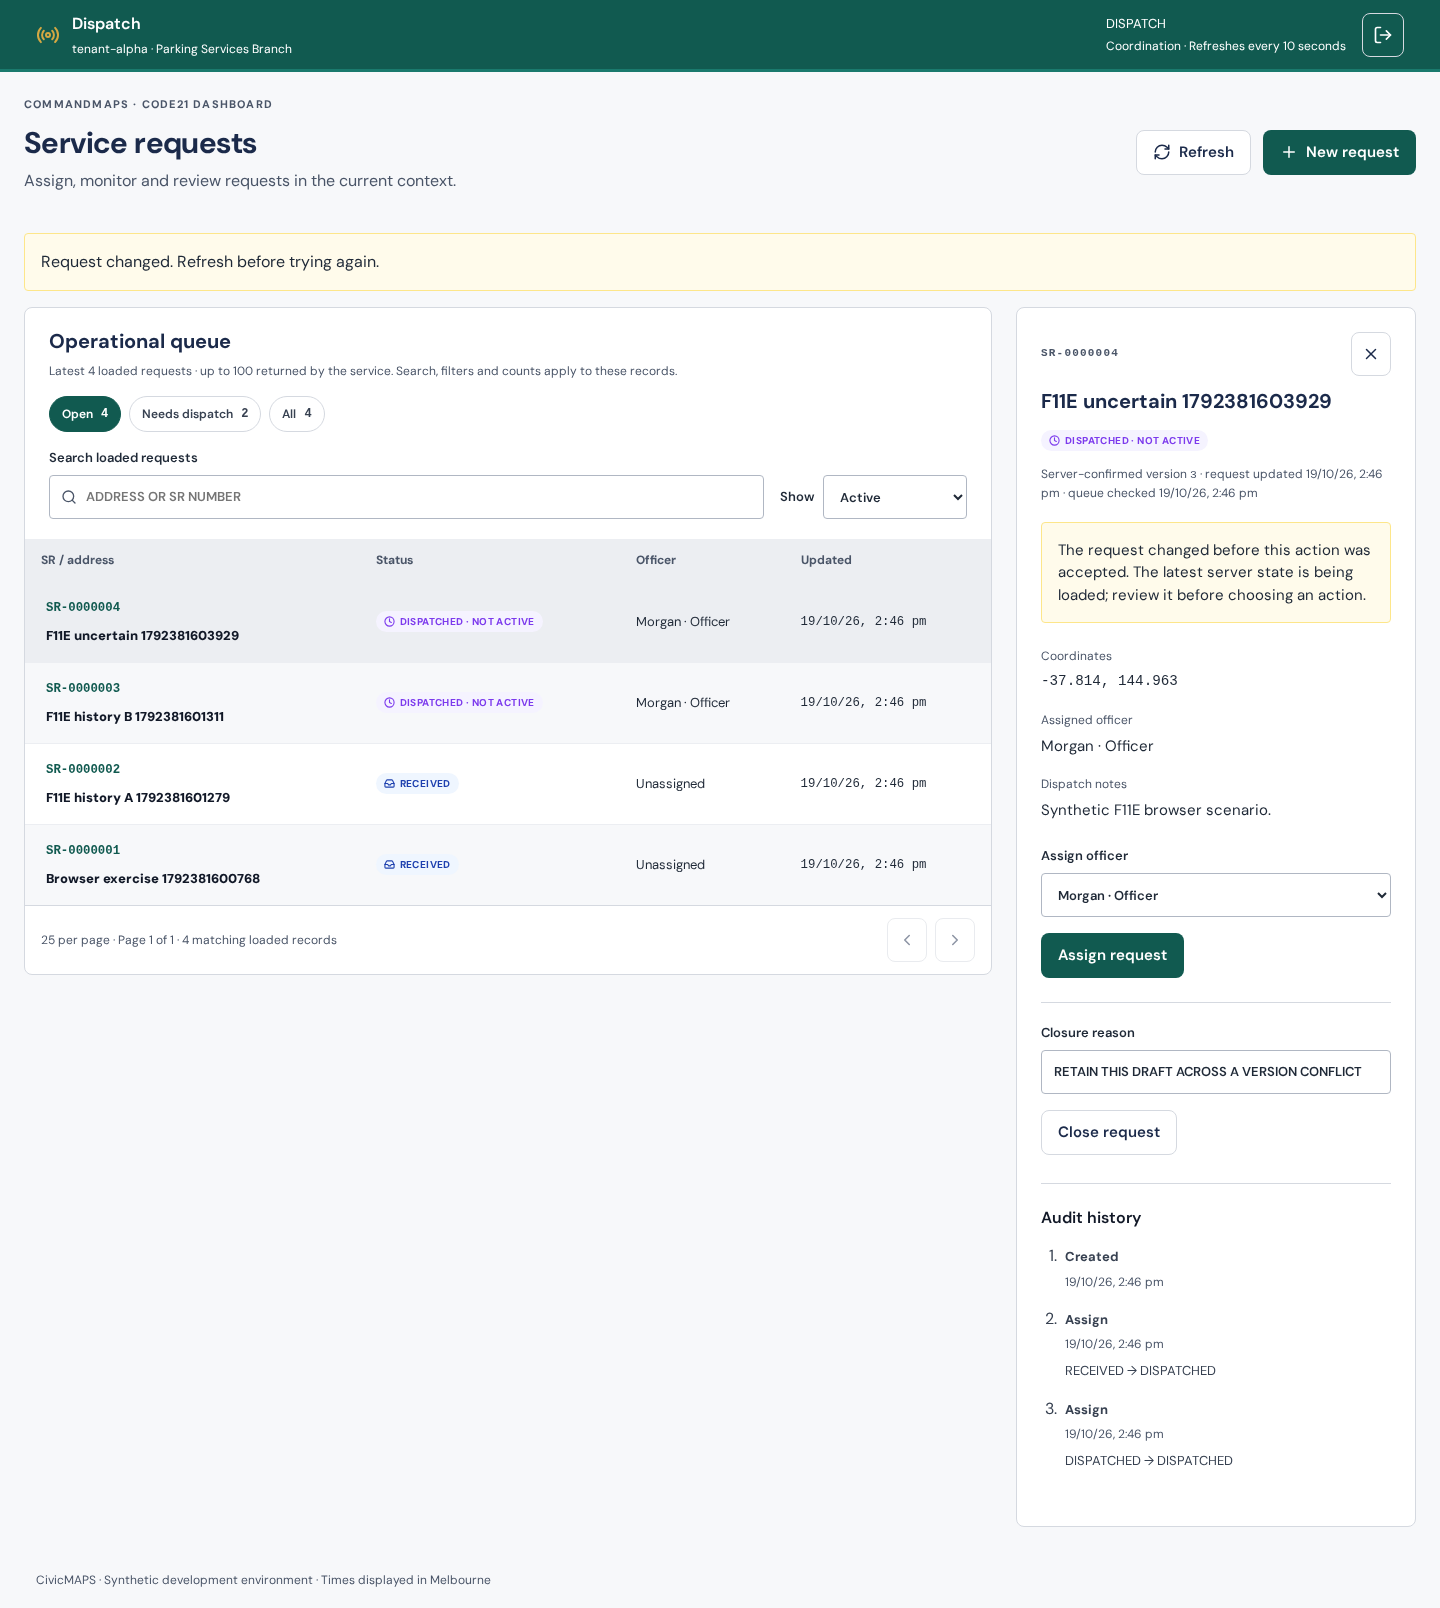
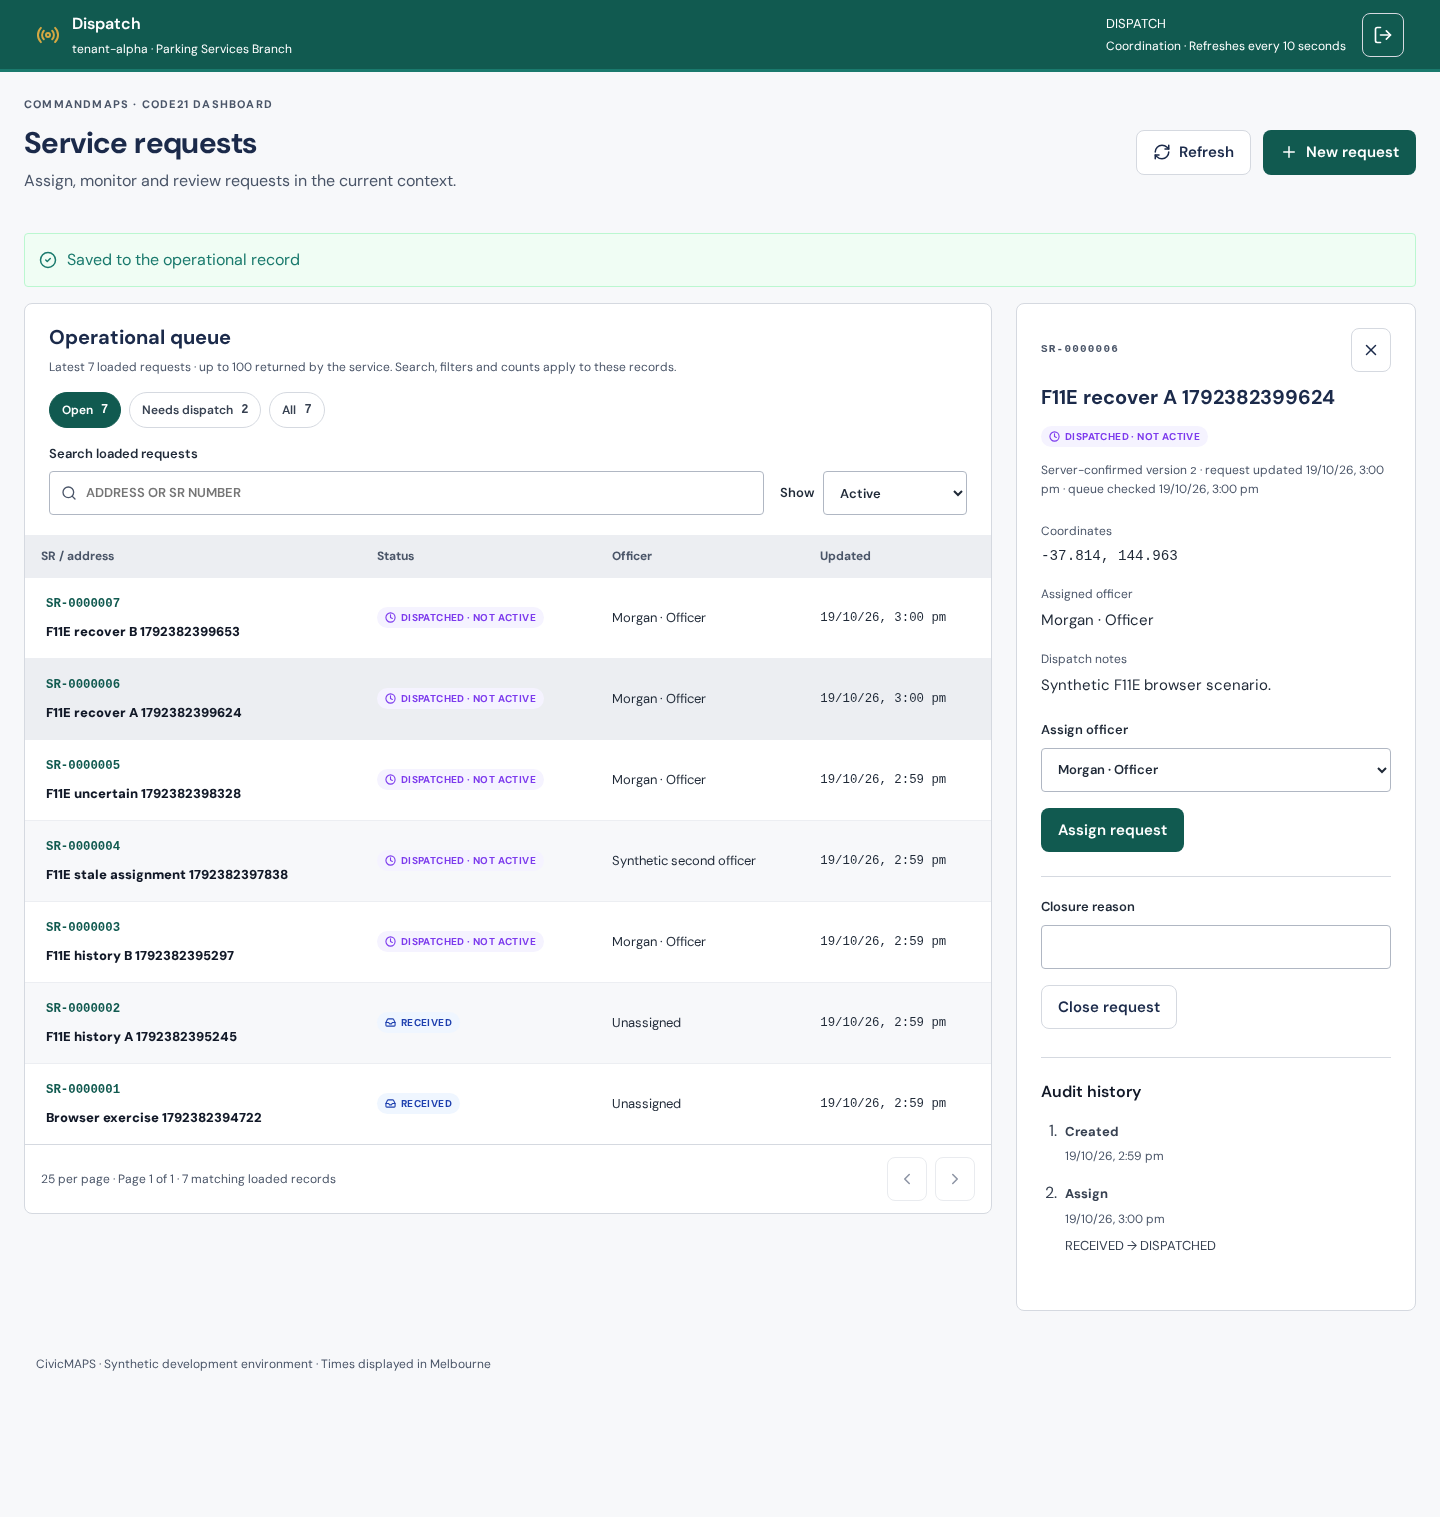
fix(commandmaps): preserve dispatch recovery state

diff --git a/apps/commandmaps/src/main.tsx b/apps/commandmaps/src/main.tsx
@@ -116,9 +116,10 @@ function App() {
   const [selected, setSelected] = useState<string | null>(null);
   const selectedRef = useRef<string | null>(null);
   const [auditState, setAuditState] = useState<AuditState | null>(null);
-  const [actionRecovery, setActionRecovery] = useState<RecoveryAction | null>(null);
+  const [actionRecoveries, setActionRecoveries] = useState<Record<string, RecoveryAction>>({});
   const [assignmentDraft, setAssignmentDraft] = useState('');
   const [closureReasonDraft, setClosureReasonDraft] = useState('');
+  const assignmentDraftDirty = useRef(false);
   const [creating, setCreating] = useState(false);
   const [filter, setFilter] = useState('active');
   const retry = useRef<{ payload: string; key: string } | null>(null);
@@ -129,10 +130,19 @@ function App() {
   const current = requests.find((request) => request.id === selected);
   const currentId = current?.id;
   const currentVersion = current?.version;
+  const actionRecovery = currentId ? actionRecoveries[currentId] : undefined;
   const scopeKey = actor
     ? `${actor.id}:${actor.context_id ?? ''}:${actor.tenant_id}:${actor.jurisdiction_id}:${actor.branch_id}:${entitlement?.version ?? ''}`
     : '';
   const loadGeneration = useRef(0);
+  function updateActionRecovery(requestId: string, recovery: RecoveryAction | null) {
+    setActionRecoveries((existing) => {
+      const next = { ...existing };
+      if (recovery) next[requestId] = recovery;
+      else delete next[requestId];
+      return next;
+    });
+  }
   const load = useCallback(async () => {
     const generation = ++loadGeneration.current;
     if (!hasQueueSnapshot.current) setQueueState('loading');
@@ -150,7 +160,7 @@ function App() {
         selectedRef.current = null;
         setSelected(null);
         setAuditState(null);
-        setActionRecovery(null);
+        setActionRecoveries({});
         setQueueCheckedAt(null);
         setActor(session.actor);
         retry.current = null;
@@ -193,7 +203,7 @@ function App() {
           selectedRef.current = null;
           setSelected(null);
           setAuditState(null);
-          setActionRecovery(null);
+          setActionRecoveries({});
           setQueueCheckedAt(null);
           setQueueState('unavailable');
         } else {
@@ -271,7 +281,7 @@ function App() {
           selectedRef.current = null;
           setSelected(null);
           setAuditState(null);
-          setActionRecovery(null);
+          setActionRecoveries({});
           setQueueCheckedAt(null);
           setQueueState('unavailable');
           return;
@@ -288,9 +298,14 @@ function App() {
       active = false;
     };
   }, [actor, currentId, currentVersion, scopeKey]);
+  useEffect(() => {
+    if (current && !assignmentDraftDirty.current)
+      setAssignmentDraft(current.assigned_officer_id ?? '');
+  }, [current, currentId, currentVersion, current?.assigned_officer_id]);
   function selectRequest(id: string) {
     selectedRef.current = id;
     setSelected(id);
+    assignmentDraftDirty.current = false;
     setAssignmentDraft(requests.find((request) => request.id === id)?.assigned_officer_id ?? '');
     setClosureReasonDraft('');
   }
@@ -318,7 +333,7 @@ function App() {
         selectedRef.current = null;
         setSelected(null);
         setAuditState(null);
-        setActionRecovery(null);
+        setActionRecoveries({});
         setQueueCheckedAt(null);
         setQueueState('unavailable');
       }
@@ -328,15 +343,22 @@ function App() {
       setBusy(false);
     }
   }
-  async function mutate(path: string, input: object, expectedScope = scopeGeneration.current) {
+  async function mutate(
+    path: string,
+    input: object,
+    expectedScope = scopeGeneration.current,
+    idempotencyKey?: string,
+  ) {
     const payload = JSON.stringify([path, input]);
-    if (retry.current?.payload !== payload) retry.current = { payload, key: crypto.randomUUID() };
+    if (!idempotencyKey && retry.current?.payload !== payload)
+      retry.current = { payload, key: crypto.randomUUID() };
+    const key = idempotencyKey ?? retry.current!.key;
     const result = await api<Request>(path, {
       method: 'POST',
-      headers: { 'x-csrf-token': csrf, 'Idempotency-Key': retry.current.key },
+      headers: { 'x-csrf-token': csrf, 'Idempotency-Key': key },
       body: JSON.stringify(input),
     });
-    retry.current = null;
+    if (retry.current?.key === key) retry.current = null;
     if (expectedScope !== scopeGeneration.current) return result;
     setRequests((existing) => {
       const index = existing.findIndex((request) => request.id === result.id);
@@ -382,10 +404,13 @@ function App() {
       try {
         const result = await mutate(`/requests/${requestId}/actions`, input, generation);
         if (generation !== scopeGeneration.current) return;
-        setActionRecovery(null);
+        updateActionRecovery(requestId, null);
         if (selectedRef.current === requestId) {
           if (action === 'close') setClosureReasonDraft('');
-          if (action === 'assign') setAssignmentDraft(result.assigned_officer_id ?? '');
+          if (action === 'assign') {
+            assignmentDraftDirty.current = false;
+            setAssignmentDraft(result.assigned_officer_id ?? '');
+          }
         }
       } catch (err) {
         if (generation !== scopeGeneration.current) throw err;
@@ -405,7 +430,7 @@ function App() {
               : err instanceof Error
                 ? err.message
                 : 'The action was rejected. Review the request and try again.';
-        setActionRecovery({ requestId, action, version, input, key, kind, message });
+        updateActionRecovery(requestId, { requestId, action, version, input, key, kind, message });
         throw err;
       }
     });
@@ -419,7 +444,7 @@ function App() {
       if (!refreshed || generation !== scopeGeneration.current) return;
       const latest = refreshed.find((request) => request.id === recovery.requestId);
       if (!latest) {
-        setActionRecovery({
+        updateActionRecovery(recovery.requestId, {
           ...recovery,
           kind: 'reconciled',
           message:
@@ -430,14 +455,15 @@ function App() {
       }
       const history = await api<Audit[]>(`/requests/${recovery.requestId}/audit`);
       if (generation !== scopeGeneration.current) return;
-      setAuditState({
-        requestId: recovery.requestId,
-        scopeKey,
-        status: 'ready',
-        events: history,
-      });
+      if (selectedRef.current === recovery.requestId)
+        setAuditState({
+          requestId: recovery.requestId,
+          scopeKey,
+          status: 'ready',
+          events: history,
+        });
       const unchanged = latest.version === recovery.version;
-      setActionRecovery({
+      updateActionRecovery(recovery.requestId, {
         ...recovery,
         kind: 'reconciled',
         latestVersion: latest.version,
@@ -455,9 +481,14 @@ function App() {
     const generation = scopeGeneration.current;
     void perform(async () => {
       try {
-        await mutate(`/requests/${recovery.requestId}/actions`, recovery.input, generation);
+        await mutate(
+          `/requests/${recovery.requestId}/actions`,
+          recovery.input,
+          generation,
+          recovery.key ?? undefined,
+        );
         if (generation !== scopeGeneration.current) return;
-        setActionRecovery(null);
+        updateActionRecovery(recovery.requestId, null);
       } catch (err) {
         if (generation !== scopeGeneration.current) throw err;
         const kind =
@@ -466,7 +497,7 @@ function App() {
             : err instanceof ApiError && err.status < 500
               ? 'rejected'
               : 'uncertain';
-        setActionRecovery({
+        updateActionRecovery(recovery.requestId, {
           ...recovery,
           kind,
           retrySameAction: false,
@@ -634,7 +665,7 @@ function App() {
                   setSelected(null);
                   selectedRef.current = null;
                   setAuditState(null);
-                  setActionRecovery(null);
+                  setActionRecoveries({});
                   setQueueCheckedAt(null);
                   setQueueState('unavailable');
                   retry.current = null;
@@ -854,7 +885,10 @@ function App() {
                             name="officerId"
                             required
                             value={assignmentDraft}
-                            onChange={(event) => setAssignmentDraft(event.target.value)}
+                            onChange={(event) => {
+                              assignmentDraftDirty.current = true;
+                              setAssignmentDraft(event.target.value);
+                            }}
                           >
                             <option value="" disabled>
                               Select officer
@@ -997,7 +1031,7 @@ function App() {
                                   setOfficers([]);
                                   setSelected(null);
                                   setAuditState(null);
-                                  setActionRecovery(null);
+                                  setActionRecoveries({});
                                   setQueueCheckedAt(null);
                                   setQueueState('unavailable');
                                   return;

diff --git a/docs/plans/evidence/F11E.md b/docs/plans/evidence/F11E.md
@@ -10,6 +10,8 @@
 
 F11E binds request and history reads to the selected request and active session/context generation. Selection changes, dismissal, context replacement and session loss invalidate delayed results. Detail shows server-confirmed status, version and update time; history has loading, empty, unavailable and retry states. Existing capability-gated actions remain. Action failure is shown for the selected request; rejected/conflict outcomes retain safe drafts. A transport-uncertain write is not replayed automatically: the operator first reconciles server state/history, then may deliberately retry only when the server version still matches the attempted version, with existing idempotency semantics. Conflict refresh does not silently rebase the draft/action. Focus returns to the selected queue row on dismissal.
 
+Each request retains its own unresolved recovery state, so a successful action on another request cannot erase it. Reconciliation updates the visible history only while that request remains selected. An untouched assignment selector follows confirmed server assignments/version changes; user-edited drafts stay intact across conflicts. A deliberate post-reconciliation retry reuses the original idempotency key.
+
 The detail remains an inline, non-modal panel. No server permission, state, schema, identity, deployment, migration, seed or live data changed. Latest-100 remains disclosed. G04 governance findings F-002/F-009/F-011/F-029 remain owned by the separate governance workstream; this implementation does not depend on or duplicate them.
 
 ## Design trace
@@ -40,6 +42,7 @@ Recorded results:
 
 - `npm run lint`, `npm run format:check`, both application type checks and production builds passed.
 - Focused CommandMAPS Chromium browser suite passed: selection/action lifecycle, disposable DB/audit, cross-scope denial, logout and narrow layout; new F11E checks exercise A→B history response ordering, failed/empty history and retry, dismissal during read, session loss, uncertain committed response without duplicate action, stale-version recovery with preserved closure reason and focus restoration.
+- After Codex review findings, the focused suite also verifies clean assignment drafts track another dispatcher's confirmed reassignment, edited assignment drafts remain intact, unresolved recovery for request A survives a successful action on request B, reconciliation cannot replace B's visible history while A is selected away, and a deliberate A retry reuses the original idempotency key and creates one audit transition.
 - Activation browser regression passed on the implementation checkpoint (this change does not touch activation code).
 - `npm run check` passed: lint, format, CommandMAPS and platform type checks, both builds, and 75/75 integration tests. An initial run without the disposable DB URL did not initialize 17 test files; the corrected run above passed the full suite.
 - Desktop and narrow screenshots are synthetic local evidence, not live acceptance: [desktop detail](F11E/desktop-detail.png), [narrow officer](F11E/narrow-officer.png). They show truthful confirmed status/version/history and inline responsive detail. Both were visually inspected.
@@ -63,3 +66,13 @@ Revert the focused F11E commit(s) or close the unmerged branch. Changes are clie
 - Limitations/dependencies: latest-100 queue limitation; G04 findings remain governance-owned; hosted CI and external advanced review still pending.
 - Hosted CI: PR run `39196553932` was in progress when recorded.
 - Review result: pending; no advanced-model approval claimed.
+
+## Codex review findings and response
+
+The established Codex review on PR #27 head `e6dd6cc4e2576e86b72f82929c8e8f81d444d418` completed with three actionable findings:
+
+1. **P1 — refreshed assignment could silently overwrite a concurrent reassignment.** Fixed by syncing pristine assignment drafts on confirmed assignment/version updates while retaining edited drafts; covered with two synthetic, independently scoped alpha officers and refreshes.
+2. **P1 — another request's successful action could erase an unresolved uncertain write.** Fixed by storing recovery state per request and retaining the original idempotency key for a deliberate retry; covered by leaving A uncertain, successfully acting on B, returning to A and retrying with exactly the captured original key, with one audit entry.
+3. **P2 — A's reconciliation history could replace B's visible history after selection changed.** Fixed by only applying reconciliation history when the same request remains selected; the synthetic browser test delays A history while switching to B and asserts B's history remains visible.
+
+All three findings were validated against current source and existing API version/idempotency behavior. Fixes and focused tests are implemented locally; they will be pushed as a new head and submitted for hosted CI and another Codex review. The prior review did find issues; no review-ready or advanced-model approval is claimed until the new head is accepted.

diff --git a/docs/plans/F11E-dispatch-detail-plan.md b/docs/plans/F11E-dispatch-detail-plan.md
@@ -79,4 +79,4 @@ Revert the focused F11E commit(s) or close the unmerged feature branch. No serve
 - [ ] Verify hosted CI and request established Codex review on the final published head.
 - [ ] Update Empirical and mark review-ready only after all required acceptance/review/publication steps.
 
-**Checkpoint:** Base `1bbfa7bb68190278d6adb64bba39527b7a3e7e36`; published implementation HEAD `1d07412d93ffd3ecd5092d68cc751ba2458a216a`. Branch/worktree as above; remote SHA verified. Draft PR #27 is open and hosted CI is running. Acceptance scenarios pass locally; `npm run check` passes lint, formatting, both app type checks/builds and 75/75 integration tests with the documented disposable PostgreSQL URL. CommandMAPS browser tests and activation browser regression pass. Synthetic desktop/narrow screenshots have been captured and inspected. Next: finalize metadata receipts, verify hosted CI and request Codex/advanced review on the final published head. No product-policy blocker.
+**Checkpoint:** Base `1bbfa7bb68190278d6adb64bba39527b7a3e7e36`; published review head `e6dd6cc4e2576e86b72f82929c8e8f81d444d418`; draft PR #27 remains open. Hosted CI run `39196618185` passed on that pre-fix head. Codex review found three actionable issues in assignment refresh semantics, per-request uncertain-write recovery and history reconciliation selection guards. All three were reproduced/validated; the local fixes and focused browser assertions pass, as do the full local check (75/75 integration tests), CommandMAPS browser suite and activation browser regression. Next: commit/publish the fixes, verify the new remote SHA, rerun hosted CI and request Codex review on the updated head. No product-policy blocker.
